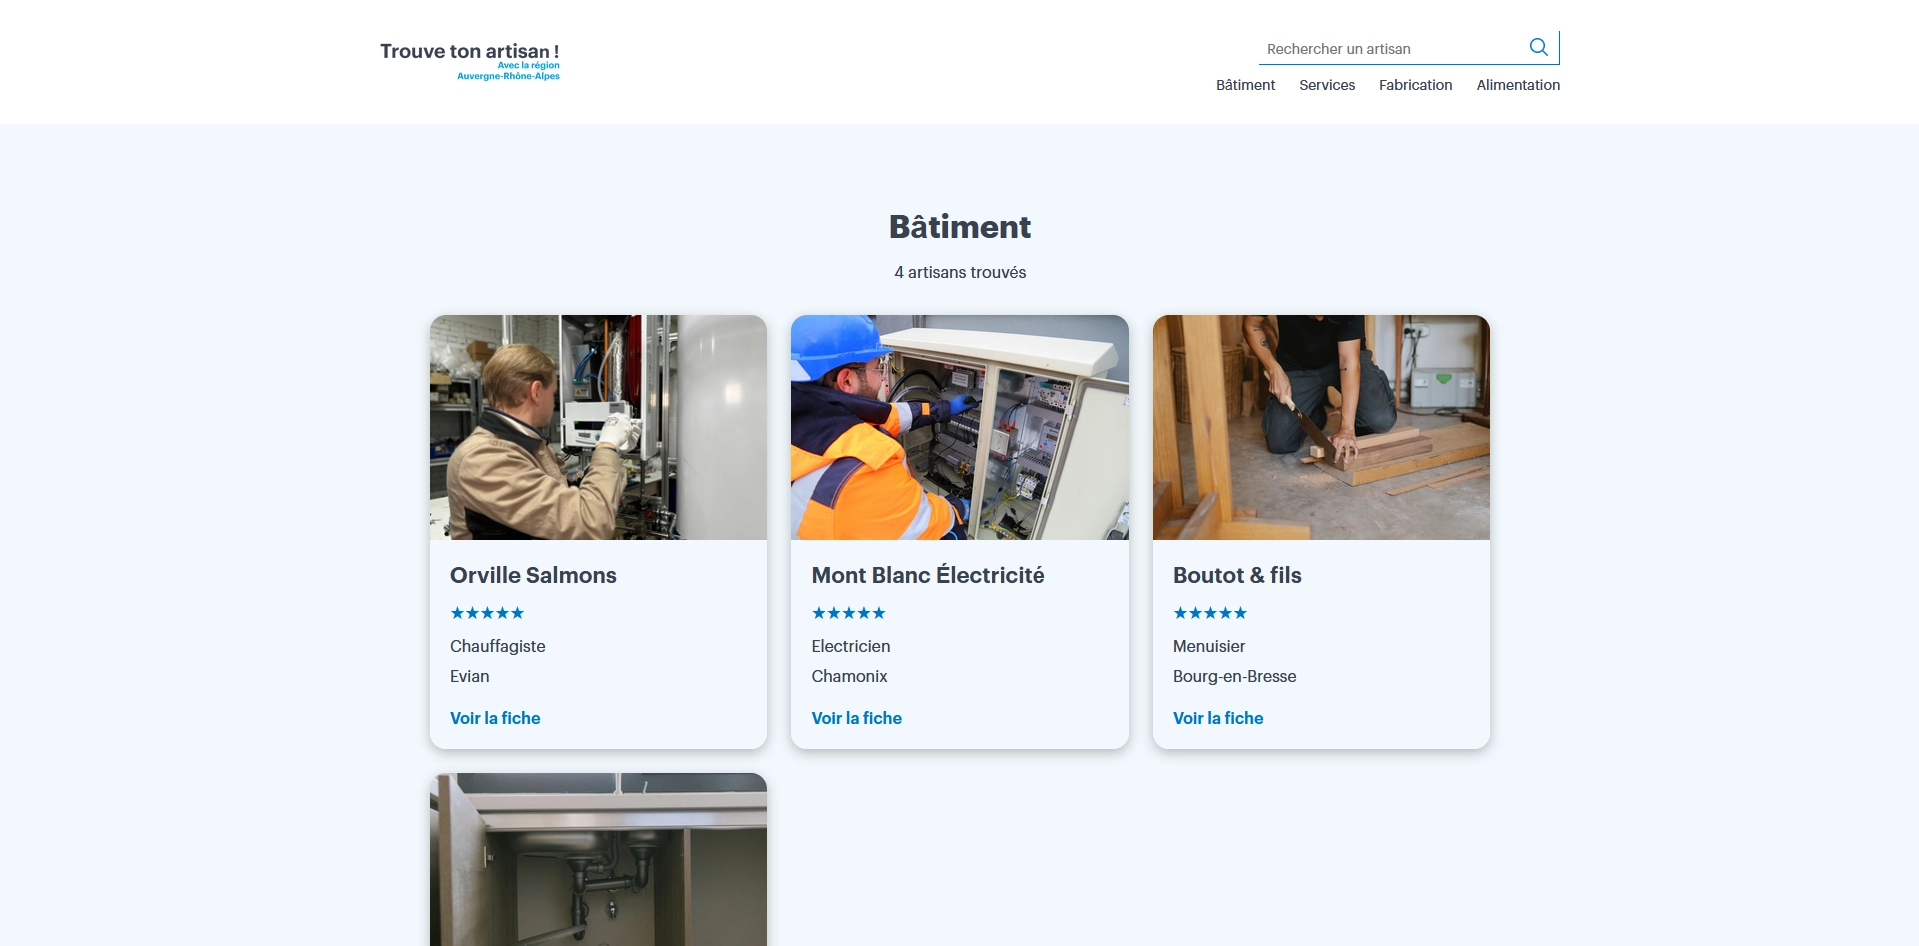
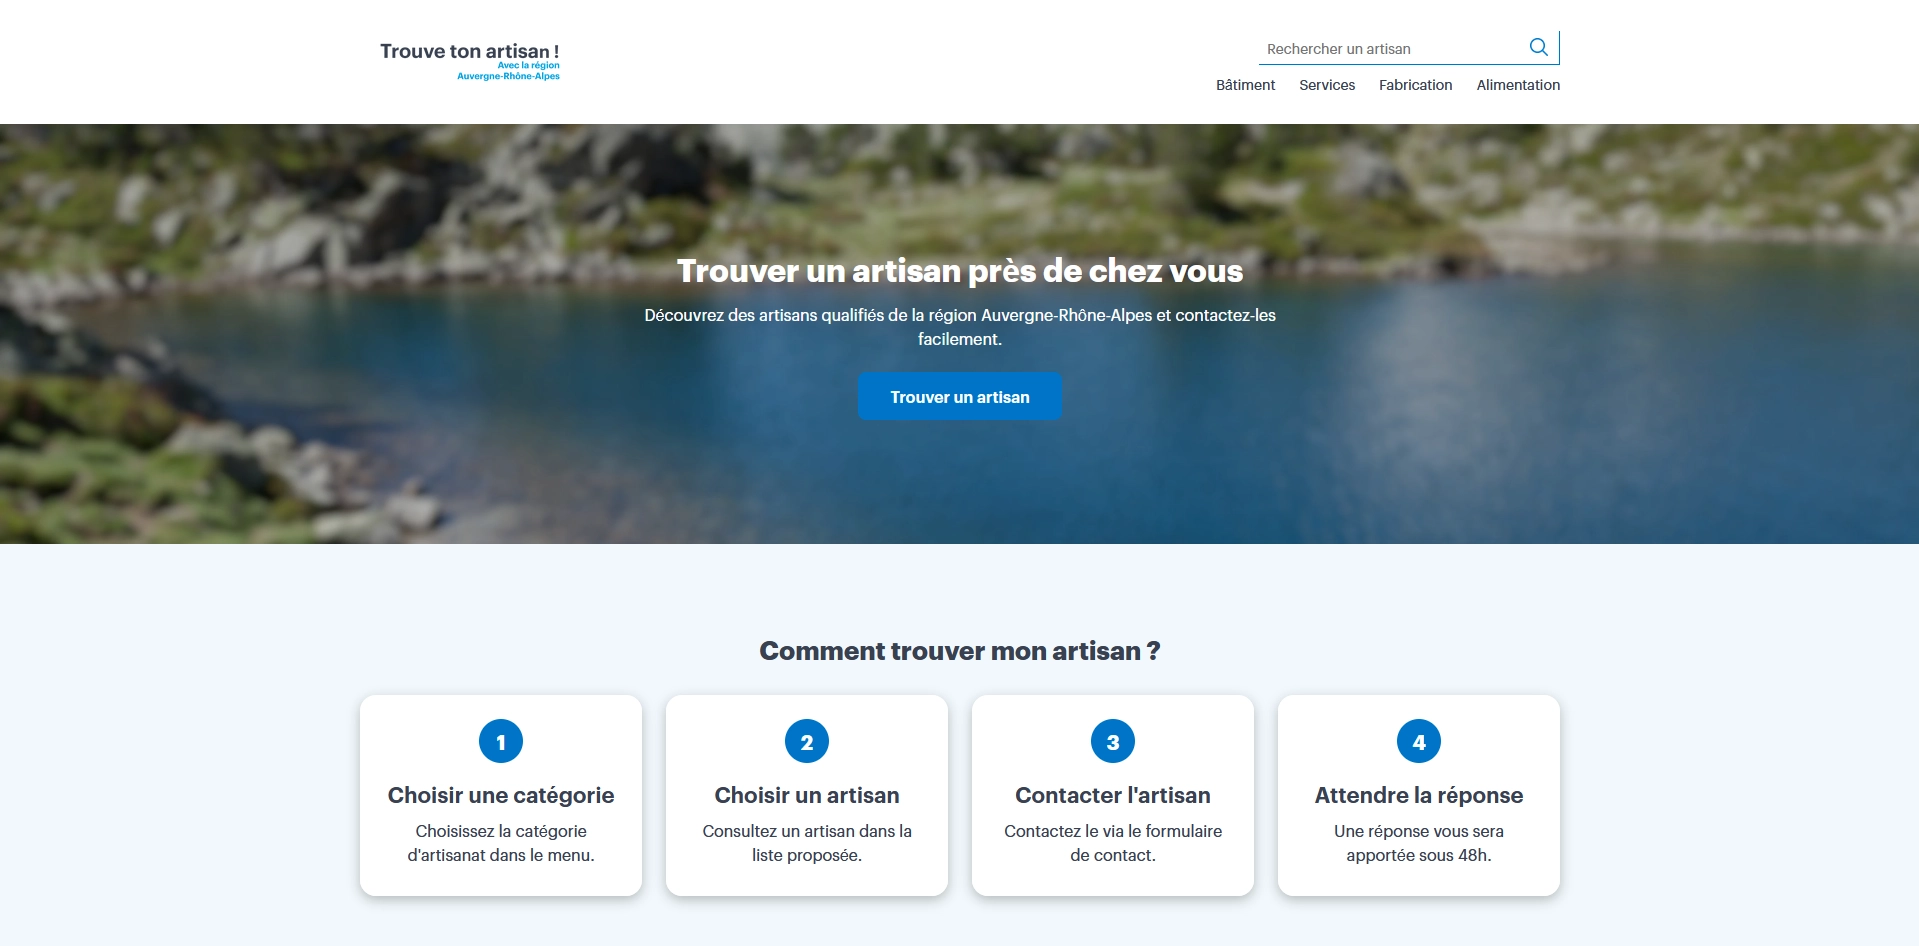
fix: center text-only project feature cards on tablet (#49)

diff --git a/src/styles/pages/_project-detail.scss b/src/styles/pages/_project-detail.scss
@@ -265,8 +265,14 @@
     }
 
     &__feature-list:has(> .project-detail__feature--text-only) {
-      grid-template-columns: repeat(2, minmax(0, 1fr));
+      display: flex;
+      flex-wrap: wrap;
+      justify-content: center;
       gap: a.$space-4;
+
+      > .project-detail__feature--text-only {
+        flex: 0 1 calc((100% - #{a.$space-4}) / 2);
+      }
     }
 
     &__technical-item {
@@ -306,8 +312,11 @@
     }
 
     &__feature-list:has(> .project-detail__feature--text-only) {
-      grid-template-columns: repeat(3, minmax(0, 1fr));
       gap: a.$space-5;
+
+      > .project-detail__feature--text-only {
+        flex-basis: calc((100% - 2 * #{a.$space-5}) / 3);
+      }
     }
 
     &__feature--text-only {
